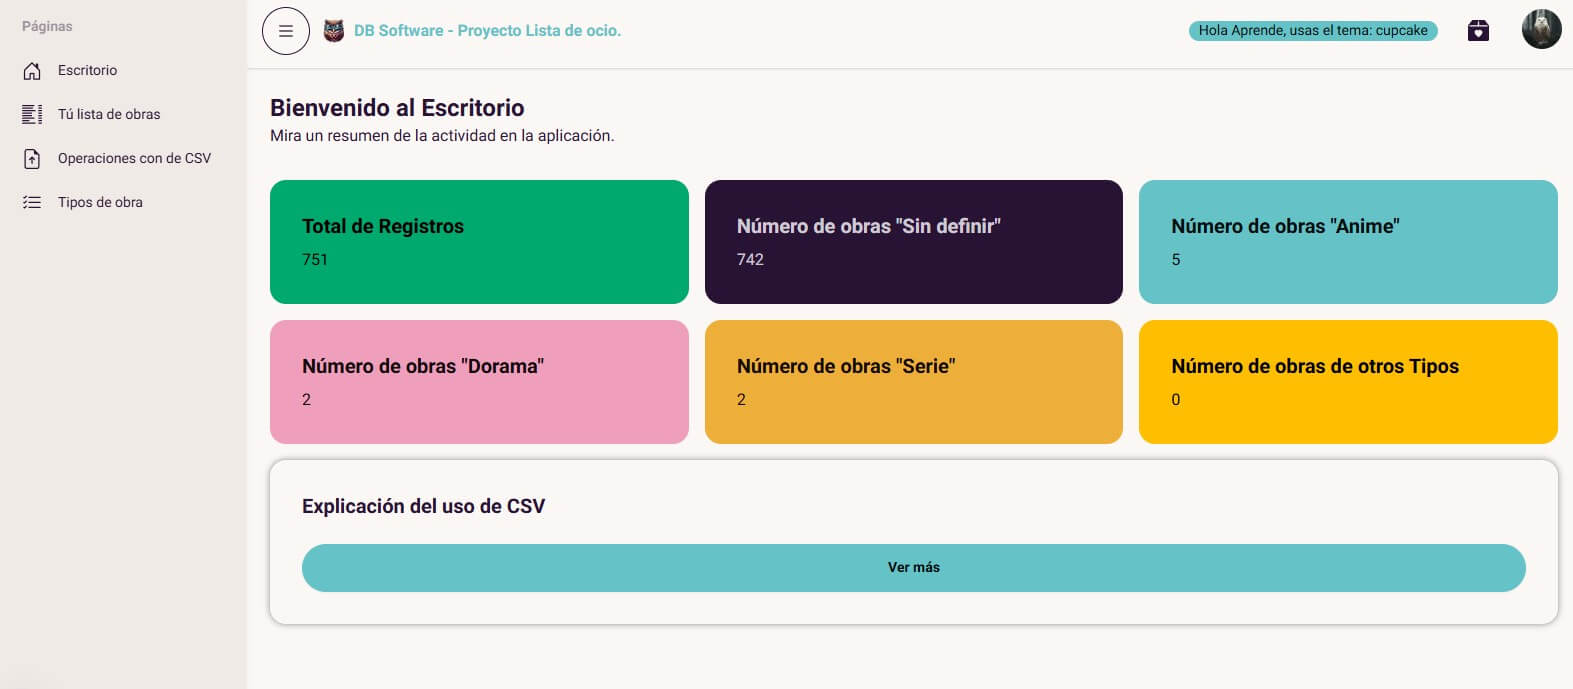
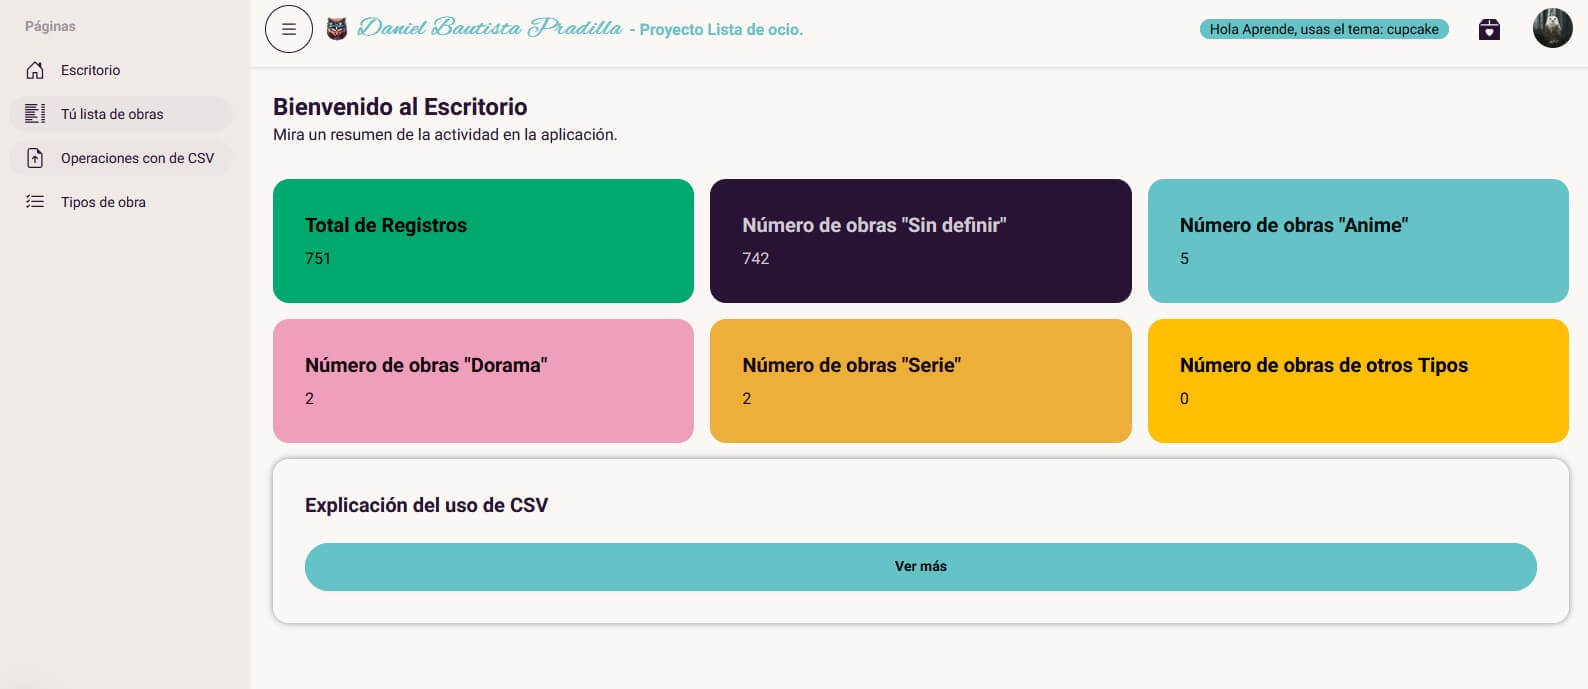
Act. firma, imágenes y readme
Mi firma con su tipografía, corrección de imágenes y readme editado.

diff --git a/front-anime/app/layout.jsx b/front-anime/app/layout.jsx
@@ -1,5 +1,5 @@
 // layout.jsx
-import { Roboto } from "next/font/google";
+import { Roboto, Alex_Brush } from "next/font/google";
 import "bootstrap-icons/font/bootstrap-icons.css";
 import "@/app/styles/globals.css";
 
@@ -7,6 +7,12 @@ const roboto = Roboto({
   variable: "--font-roboto",
   subsets: ["latin"],
   weight: ["300", "400", "500", "700"],
+});
+
+const alexBrush = Alex_Brush({
+  variable: "--font-AlexBrush",
+  subsets: ["latin"],
+  weight: ["400"],
 });
 
 export const metadata = {
@@ -17,7 +23,7 @@ export const metadata = {
 export default function RootLayout({ children }) {
   return (
     <html lang="es" data-theme="">
-      <body className={`${roboto.variable} antialiased`}>{children}</body>
+      <body className={`${roboto.variable} ${alexBrush.variable} antialiased`}>{children}</body>
     </html>
   );
 }

diff --git a/front-anime/app/layouts/DashboardLayout.jsx b/front-anime/app/layouts/DashboardLayout.jsx
@@ -124,7 +124,10 @@ export default function DashboardLayout({ children }) {
             </button>
             <div className="flex items-center text-primary">
               <Image src="/logo.png" alt="Logo" className="h-6 w-auto" width={50} height={50} />
-              <span className="font-bold ml-2">DB Software - Proyecto Lista de ocio.</span>
+              <span className="font-bold ml-2" id="miFirma">
+                Daniel Bautista Pradilla
+              </span>
+              <span className="font-bold ml-2">- Proyecto Lista de ocio.</span>
             </div>
           </div>
           {/* Mensajes de error */}

diff --git a/front-anime/app/styles/globals.css b/front-anime/app/styles/globals.css
@@ -18,3 +18,9 @@ body {
     -4px 0 6px -1px rgba(0, 0, 0, 0.1),
     -2px 0 4px -1px rgba(0, 0, 0, 0.06);
 }
+
+/* Firma*/
+#miFirma {
+  font-family: "Alex Brush", cursive;
+  font-size: 26px;
+}

diff --git a/README.md b/README.md
@@ -26,10 +26,10 @@ Este proyecto no solo permite almacenar una lista de obras, sino que ofrece una 
 
 ## Vistazo al proyecto:
 
-- **Login:**
+- **Login:** Tema por defecto dark
   ![login](./img-portada/login.jpg)
 
-- **Registro:**
+- **Registro:** Tema por defecto dark
   ![registro](./img-portada/registro.jpg)
 
 - **Escritorio:**
@@ -42,7 +42,7 @@ Este proyecto no solo permite almacenar una lista de obras, sino que ofrece una 
   ![operaciones-csv](./img-portada/operaciones-csv.jpg)
 
 - **Tipos:**
-  ![tipos-obra](./img-portada/tipos-obra.jpg)
+  ![tipos-obra](./img-portada/tipo-obra.jpg)
 
 - **Configuracion:**
   ![configuracion](./img-portada/configuracion.jpg)
